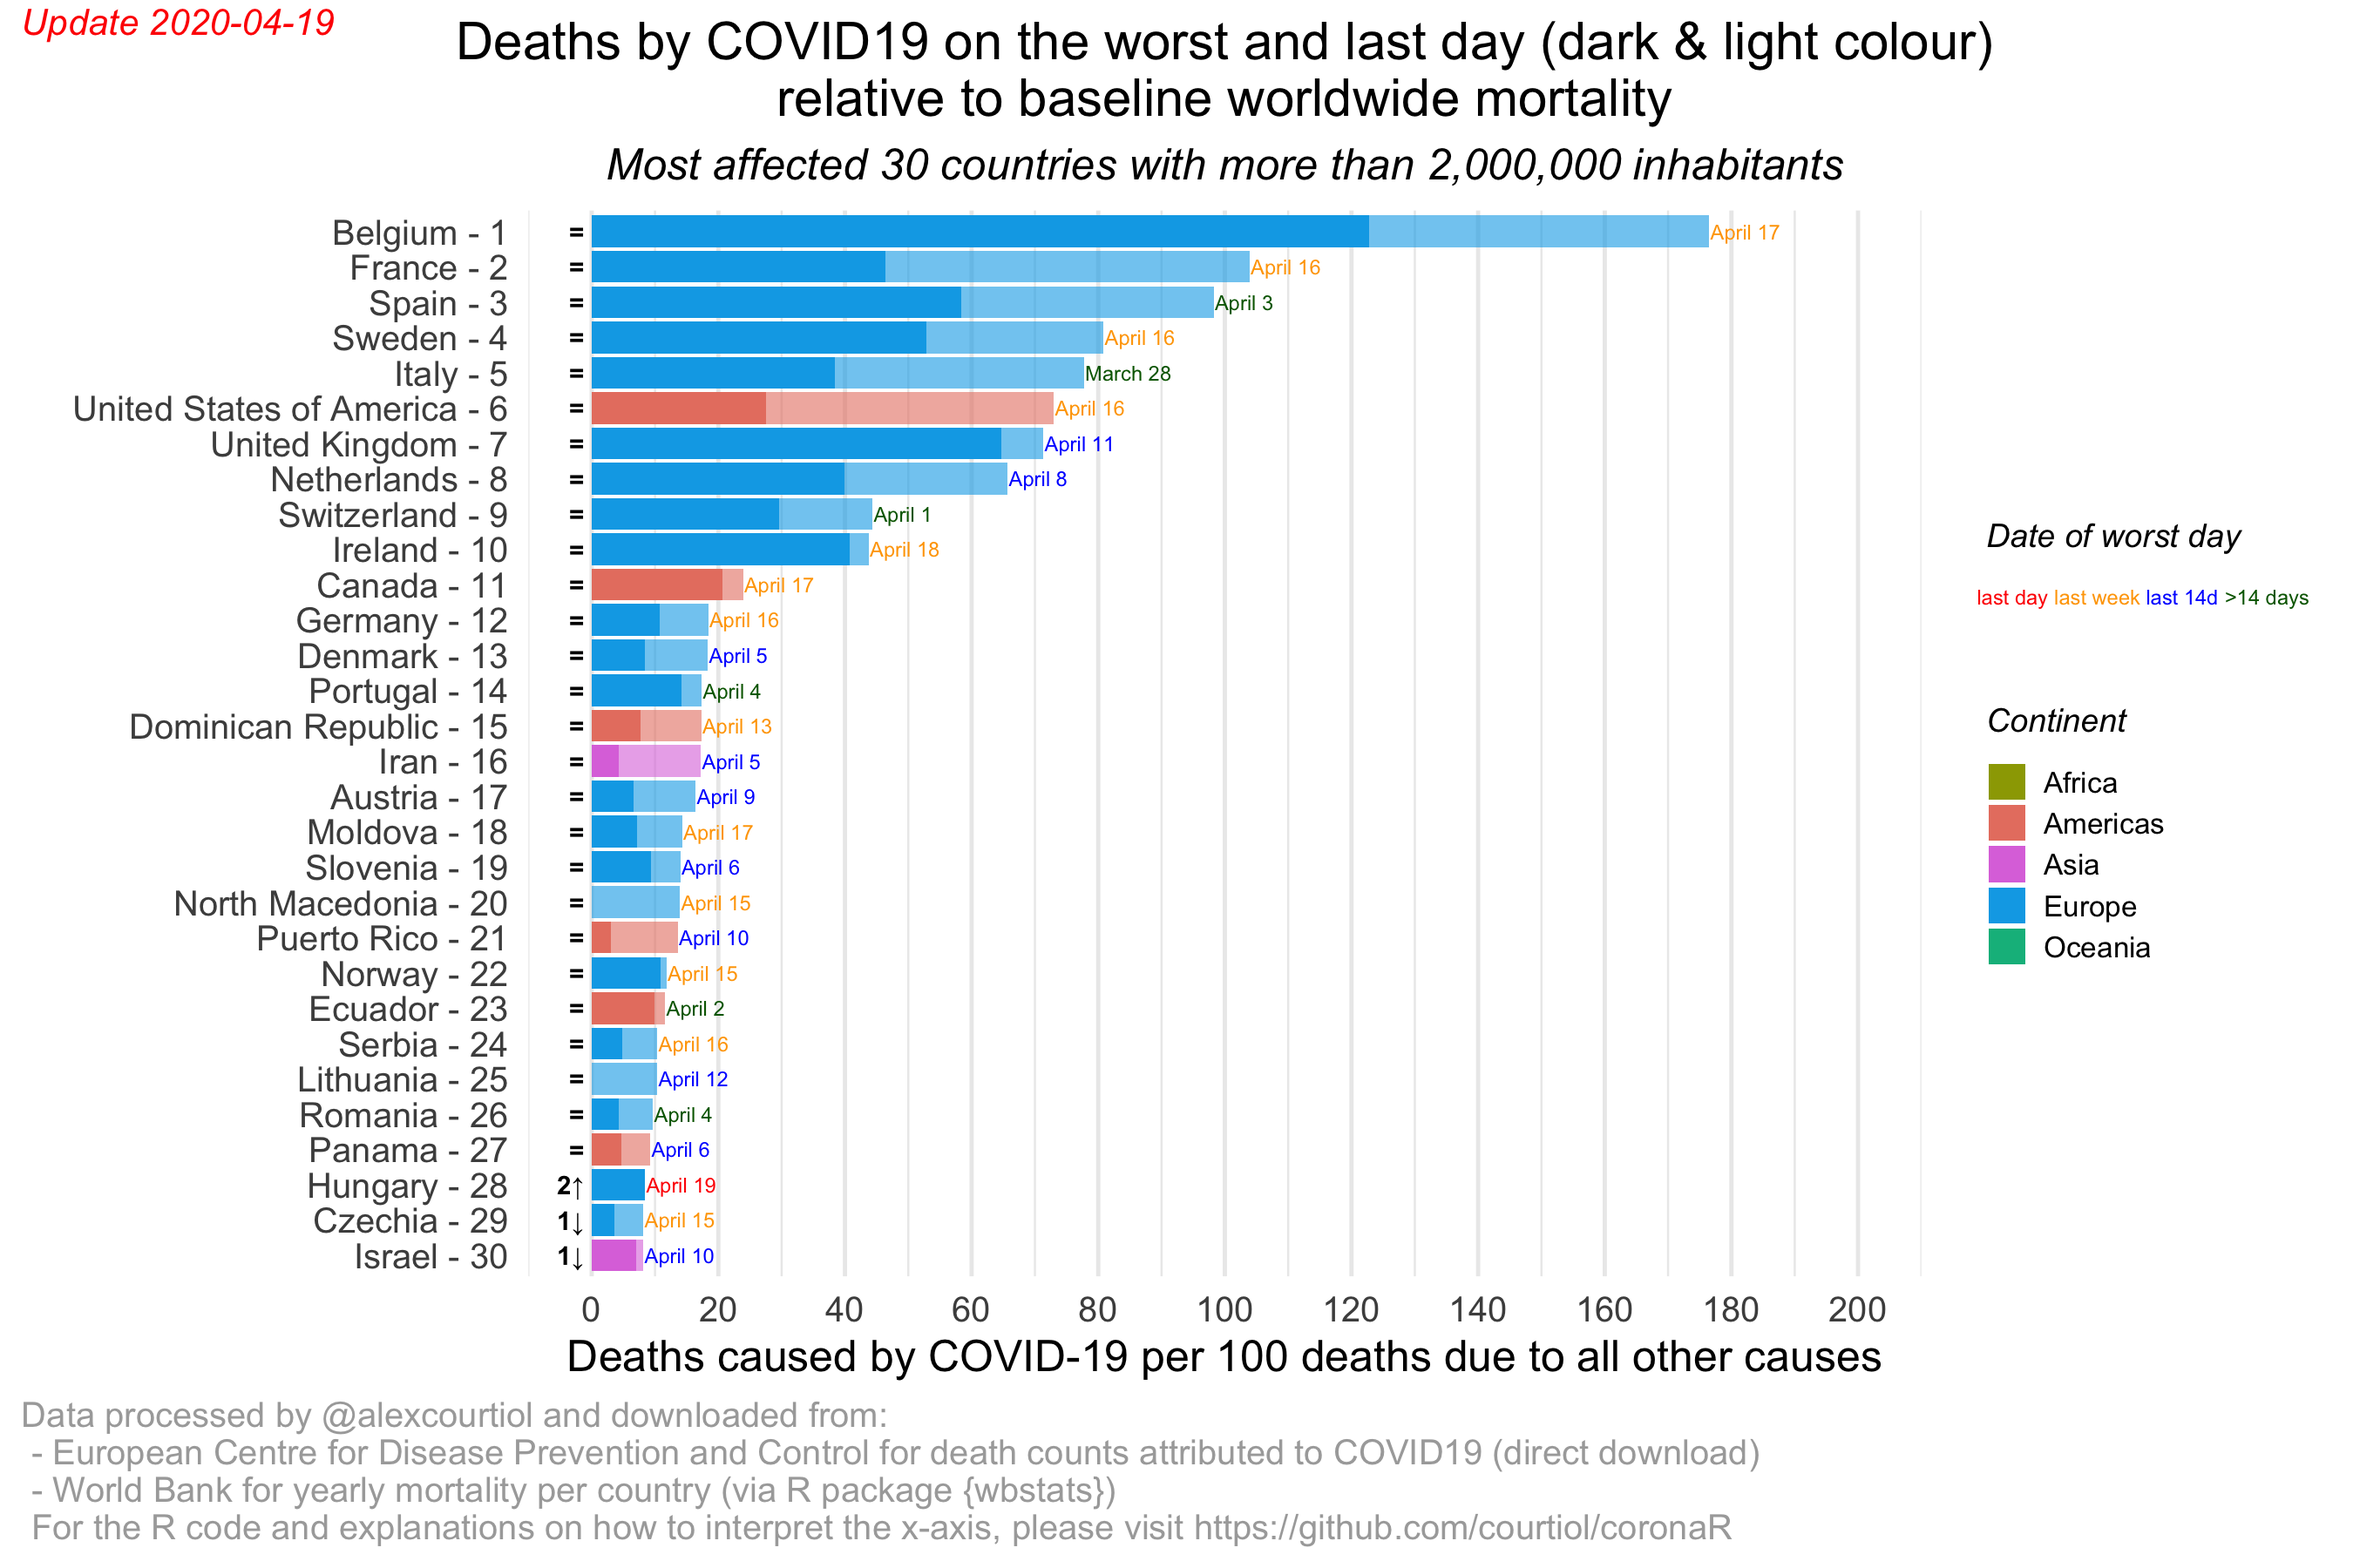
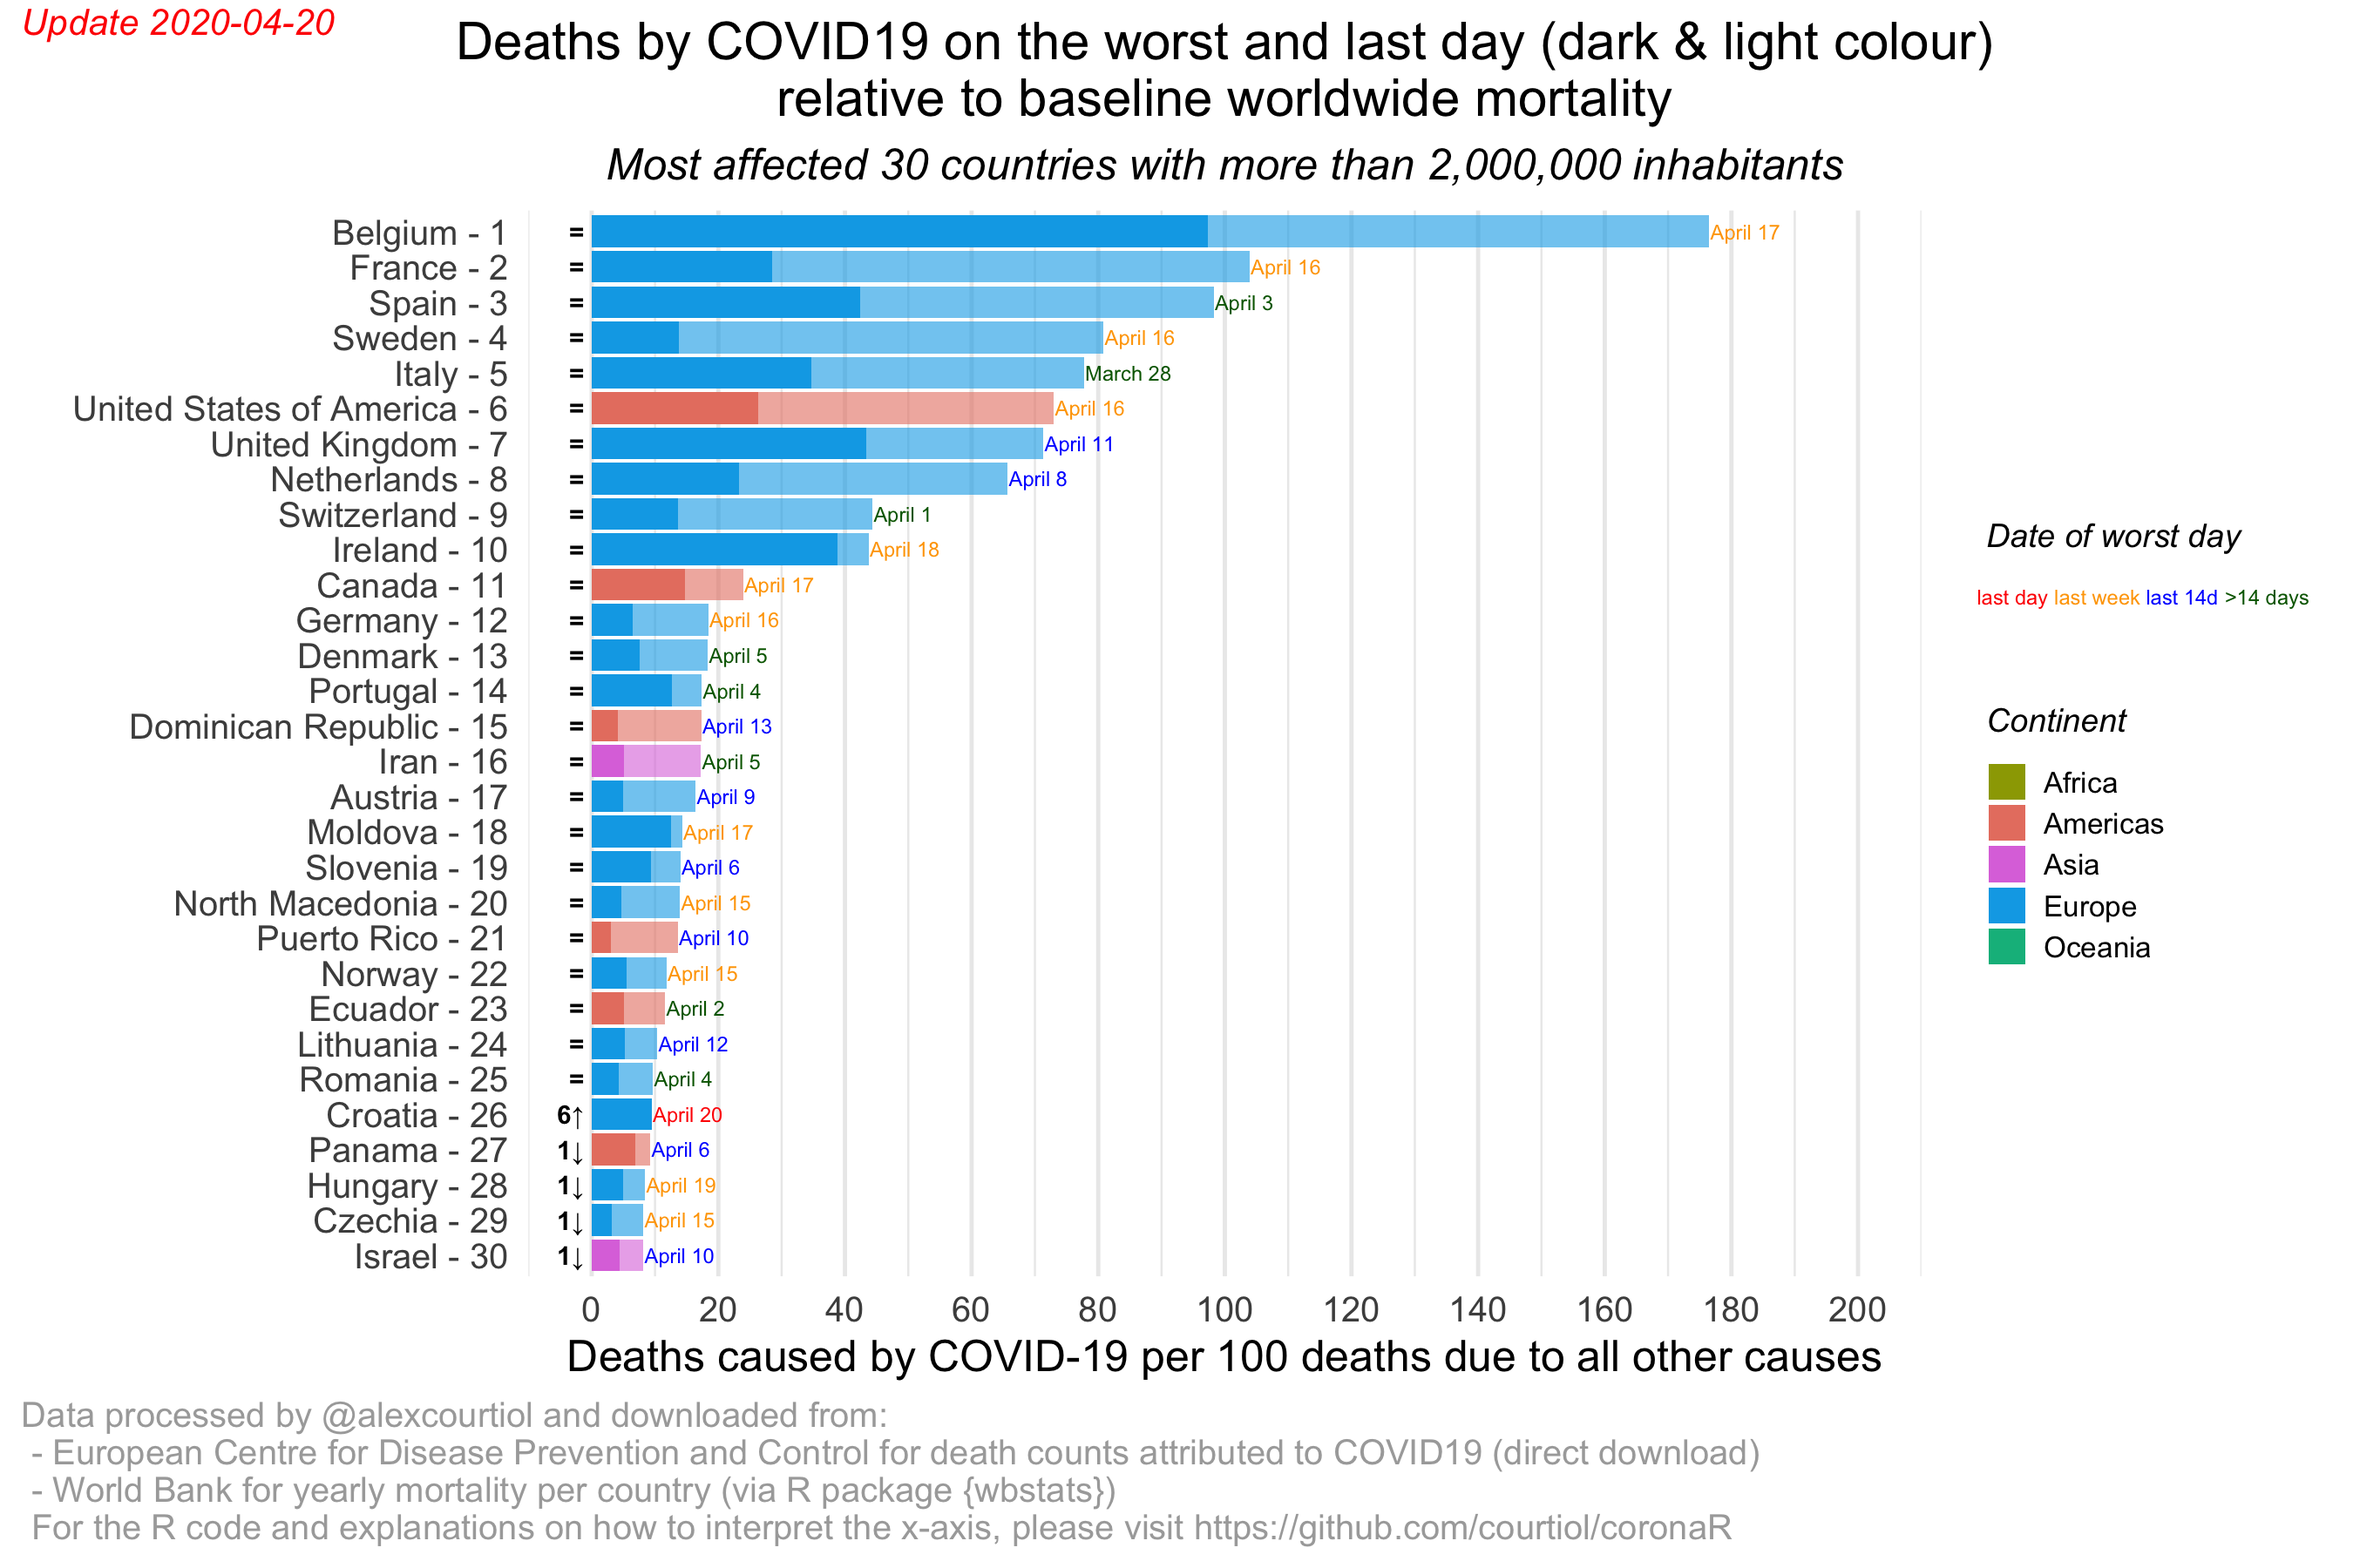
Update 20200420

diff --git a/README.md b/README.md
@@ -95,23 +95,23 @@ library(coronaR)
 today <- Sys.Date() ## note: you can change the date, to rebuild plots retrospectively
 data_COVID <- prepare_data_ECDC(path_save_data = "~/Downloads/COVID19",
                                 date_of_report = today)
-#> The source of the COVID data have been stored in~/Downloads/COVID19/COVID-19-geographic-disbtribution-worldwide-2020-04-19.xlsx!
+#> The source of the COVID data have been stored in~/Downloads/COVID19/COVID-19-geographic-disbtribution-worldwide-2020-04-20.xlsx!
 #> Warning in countrycode::countrycode(.data$iso2c, origin = "iso2c", destination = "continent"): Some values were not matched unambiguously: XK
 data_COVID
-#> # A tibble: 11,768 x 9
+#> # A tibble: 11,981 x 9
 #>    country iso2c continent date_report date_report_last cases deaths_daily
 #>    <chr>   <chr> <fct>     <date>      <date>           <dbl>        <dbl>
-#>  1 Afghan… AF    Asia      2019-12-31  2020-04-19           0            0
-#>  2 Afghan… AF    Asia      2020-01-01  2020-04-19           0            0
-#>  3 Afghan… AF    Asia      2020-01-02  2020-04-19           0            0
-#>  4 Afghan… AF    Asia      2020-01-03  2020-04-19           0            0
-#>  5 Afghan… AF    Asia      2020-01-04  2020-04-19           0            0
-#>  6 Afghan… AF    Asia      2020-01-05  2020-04-19           0            0
-#>  7 Afghan… AF    Asia      2020-01-06  2020-04-19           0            0
-#>  8 Afghan… AF    Asia      2020-01-07  2020-04-19           0            0
-#>  9 Afghan… AF    Asia      2020-01-08  2020-04-19           0            0
-#> 10 Afghan… AF    Asia      2020-01-09  2020-04-19           0            0
-#> # … with 11,758 more rows, and 2 more variables: deaths_cumul <dbl>,
+#>  1 Afghan… AF    Asia      2019-12-31  2020-04-20           0            0
+#>  2 Afghan… AF    Asia      2020-01-01  2020-04-20           0            0
+#>  3 Afghan… AF    Asia      2020-01-02  2020-04-20           0            0
+#>  4 Afghan… AF    Asia      2020-01-03  2020-04-20           0            0
+#>  5 Afghan… AF    Asia      2020-01-04  2020-04-20           0            0
+#>  6 Afghan… AF    Asia      2020-01-05  2020-04-20           0            0
+#>  7 Afghan… AF    Asia      2020-01-06  2020-04-20           0            0
+#>  8 Afghan… AF    Asia      2020-01-07  2020-04-20           0            0
+#>  9 Afghan… AF    Asia      2020-01-08  2020-04-20           0            0
+#> 10 Afghan… AF    Asia      2020-01-09  2020-04-20           0            0
+#> # … with 11,971 more rows, and 2 more variables: deaths_cumul <dbl>,
 #> #   date_first_10_cumul_deaths <date>
   
 ## NOTE: the following Warning is expected:
@@ -239,32 +239,32 @@ full_data <- merge_datasets(data_ECDC = data_COVID,
 
 ``` r
 str(full_data)
-#> tibble [9,230 × 24] (S3: tbl_df/tbl/data.frame)
-#>  $ country                         : chr [1:9230] "Afghanistan" "Afghanistan" "Afghanistan" "Afghanistan" ...
+#> tibble [9,380 × 24] (S3: tbl_df/tbl/data.frame)
+#>  $ country                         : chr [1:9380] "Afghanistan" "Afghanistan" "Afghanistan" "Afghanistan" ...
 #>  $ continent                       : Factor w/ 5 levels "Africa","Americas",..: 3 3 3 3 3 3 3 3 3 3 ...
-#>  $ date_report                     : Date[1:9230], format: "2020-04-19" "2020-04-18" ...
-#>  $ date_report_last                : Date[1:9230], format: "2020-04-19" "2020-04-19" ...
-#>  $ cases                           : num [1:9230] 63 51 10 70 49 58 52 34 37 61 ...
-#>  $ deaths_daily                    : num [1:9230] 0 1 4 2 2 3 0 3 0 1 ...
-#>  $ deaths_cumul                    : num [1:9230] 30 30 29 25 23 21 18 18 15 15 ...
-#>  $ date_first_10_cumul_deaths      : Date[1:9230], format: "2020-04-08" "2020-04-08" ...
-#>  $ year_mortality                  : num [1:9230] 2018 2018 2018 2018 2018 ...
-#>  $ total_death_year                : num [1:9230] 238758 238758 238758 238758 238758 ...
-#>  $ total_death_day                 : num [1:9230] 654 654 654 654 654 ...
-#>  $ total_death_year_world          : num [1:9230] 56650926 56650926 56650926 56650926 56650926 ...
-#>  $ total_death_day_world           : num [1:9230] 155208 155208 155208 155208 155208 ...
-#>  $ country_pop                     : num [1:9230] 37172386 37172386 37172386 37172386 37172386 ...
-#>  $ world_pop                       : num [1:9230] 7.51e+09 7.51e+09 7.51e+09 7.51e+09 7.51e+09 ...
-#>  $ days_since_first_10_cumul_deaths: 'difftime' num [1:9230] 11 10 9 8 ...
+#>  $ date_report                     : Date[1:9380], format: "2020-04-20" "2020-04-19" ...
+#>  $ date_report_last                : Date[1:9380], format: "2020-04-20" "2020-04-20" ...
+#>  $ cases                           : num [1:9380] 88 63 51 10 70 49 58 52 34 37 ...
+#>  $ deaths_daily                    : num [1:9380] 3 0 1 4 2 2 3 0 3 0 ...
+#>  $ deaths_cumul                    : num [1:9380] 33 30 30 29 25 23 21 18 18 15 ...
+#>  $ date_first_10_cumul_deaths      : Date[1:9380], format: "2020-04-08" "2020-04-08" ...
+#>  $ year_mortality                  : num [1:9380] 2018 2018 2018 2018 2018 ...
+#>  $ total_death_year                : num [1:9380] 238758 238758 238758 238758 238758 ...
+#>  $ total_death_day                 : num [1:9380] 654 654 654 654 654 ...
+#>  $ total_death_year_world          : num [1:9380] 56650926 56650926 56650926 56650926 56650926 ...
+#>  $ total_death_day_world           : num [1:9380] 155208 155208 155208 155208 155208 ...
+#>  $ country_pop                     : num [1:9380] 37172386 37172386 37172386 37172386 37172386 ...
+#>  $ world_pop                       : num [1:9380] 7.51e+09 7.51e+09 7.51e+09 7.51e+09 7.51e+09 ...
+#>  $ days_since_first_10_cumul_deaths: 'difftime' num [1:9380] 12 11 10 9 ...
 #>   ..- attr(*, "units")= chr "days"
-#>  $ extra_mortality_daily_country   : num [1:9230] 0 0.153 0.611 0.306 0.306 ...
-#>  $ extra_mortality_cumul_country   : num [1:9230] 0.268 0.292 0.306 0.272 0.268 ...
-#>  $ country_weight                  : num [1:9230] 0.00495 0.00495 0.00495 0.00495 0.00495 ...
-#>  $ extra_mortality_daily_world     : num [1:9230] 0 0.13 0.521 0.26 0.26 ...
-#>  $ extra_mortality_cumul_world     : num [1:9230] 0.228 0.249 0.26 0.231 0.228 ...
-#>  $ extra_mortality                 : num [1:9230] 0.611 0.611 0.611 0.611 0.611 ...
-#>  $ date                            : Date[1:9230], format: "2020-04-08" "2020-04-08" ...
-#>  $ days_since_date                 : 'difftime' num [1:9230] 11 11 11 11 ...
+#>  $ extra_mortality_daily_country   : num [1:9380] 0.459 0 0.153 0.611 0.306 ...
+#>  $ extra_mortality_cumul_country   : num [1:9380] 0.282 0.268 0.292 0.306 0.272 ...
+#>  $ country_weight                  : num [1:9380] 0.00495 0.00495 0.00495 0.00495 0.00495 ...
+#>  $ extra_mortality_daily_world     : num [1:9380] 0.391 0 0.13 0.521 0.26 ...
+#>  $ extra_mortality_cumul_world     : num [1:9380] 0.24 0.228 0.249 0.26 0.231 ...
+#>  $ extra_mortality                 : num [1:9380] 0.611 0.611 0.611 0.611 0.611 ...
+#>  $ date                            : Date[1:9380], format: "2020-04-08" "2020-04-08" ...
+#>  $ days_since_date                 : 'difftime' num [1:9380] 12 12 12 12 ...
 #>   ..- attr(*, "units")= chr "days"
 ```
 
@@ -344,7 +344,7 @@ devtools::session_info()
 #>  collate  en_US.UTF-8                 
 #>  ctype    en_US.UTF-8                 
 #>  tz       Europe/Berlin               
-#>  date     2020-04-19                  
+#>  date     2020-04-20                  
 #> 
 #> ─ Packages ───────────────────────────────────────────────────────────────────
 #>  package     * version    date       lib source        
